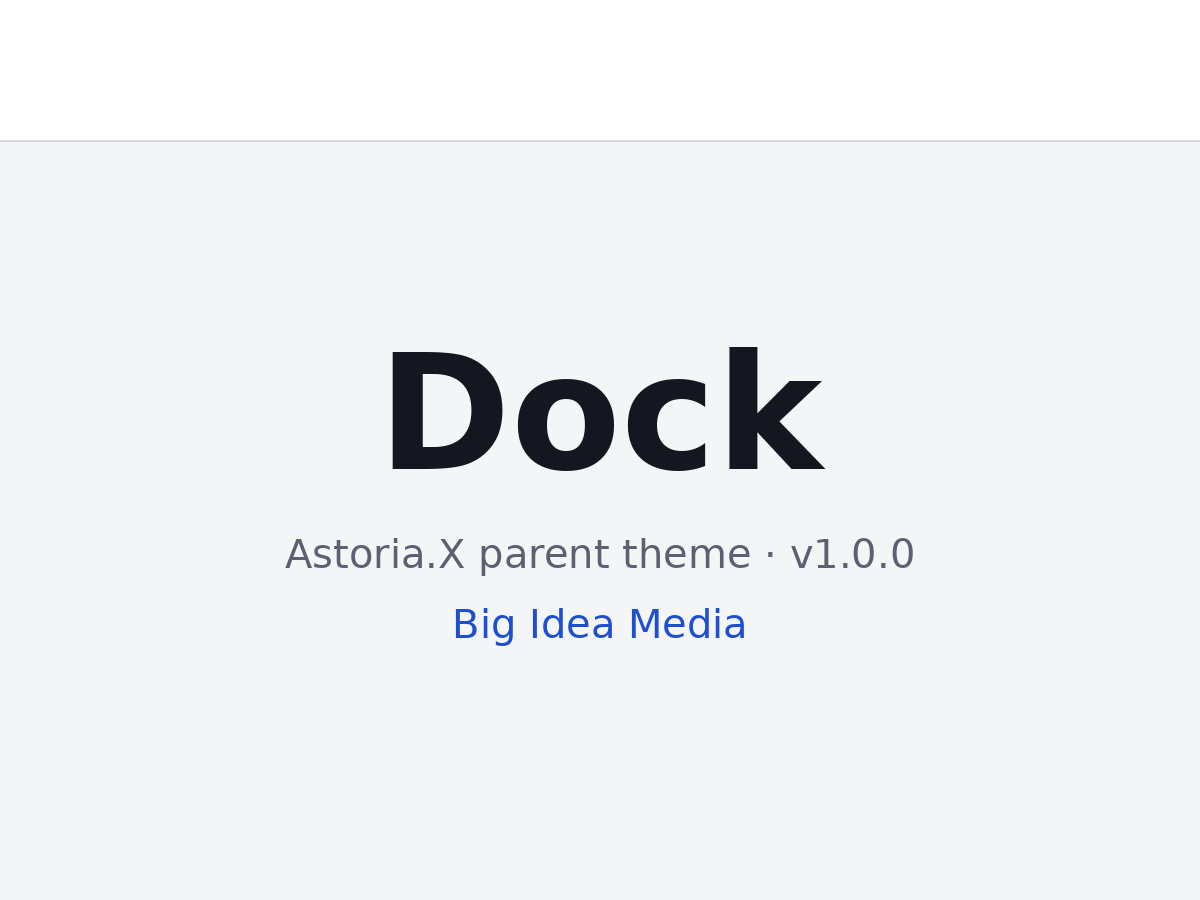
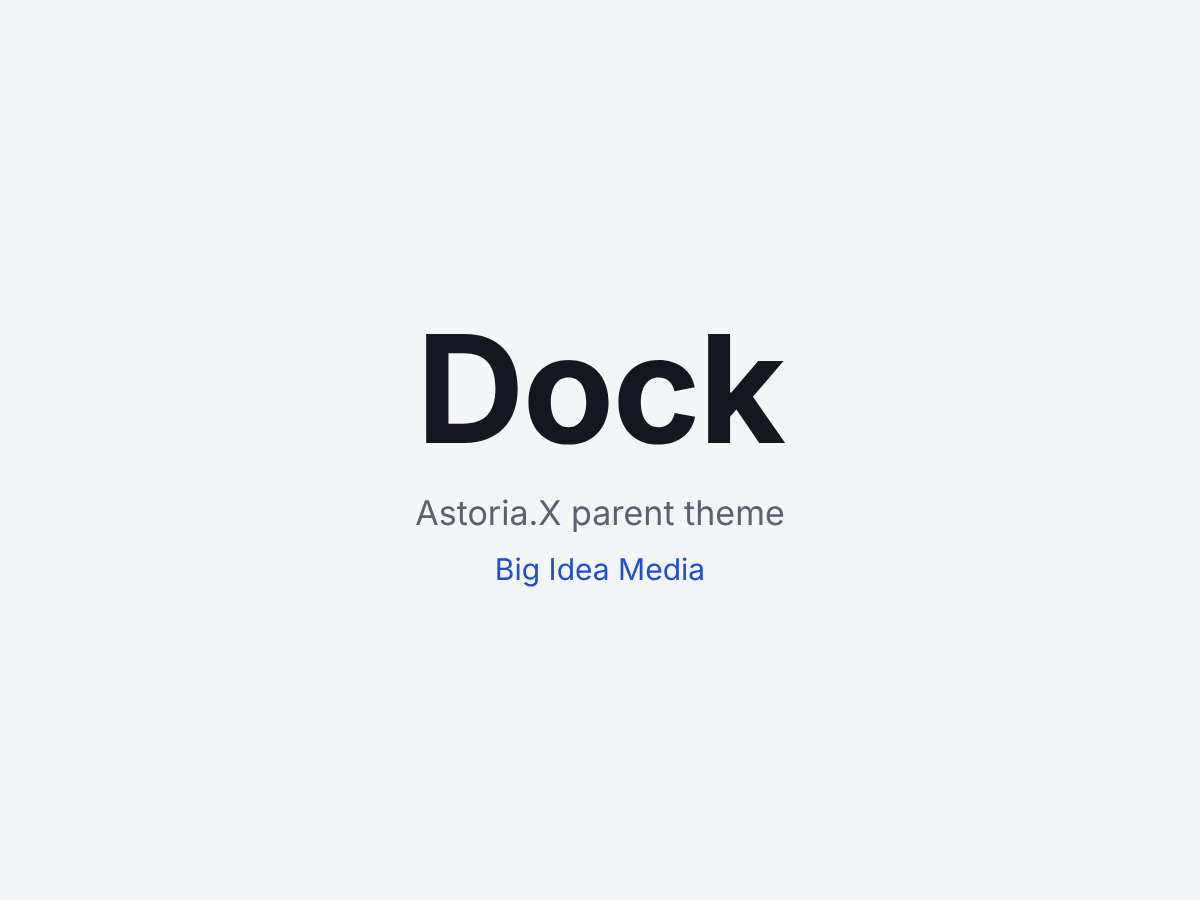
Keep version markers current: changelog, release checklist, version-free screenshot
- screenshot.png no longer shows a version number (it said v1.0.0 on 1.0.1).
- README points to style.css and CHANGELOG.md instead of repeating the number.
- Add CHANGELOG.md.
- CLAUDE.md: the version lives only in style.css and DOCK_VERSION, plus a
  release checklist covering changelog, screenshot, tag and zip.

Claude-Session: https://claude.ai/code/session_01CUz8qmFhV7ZwCisycR98r1

Changed region(s): [[0.3083, 0.3733, 0.6783, 0.5289], [0.2467, 0.56, 0.6475, 0.7156], [0.6475, 0.5911, 0.7708, 0.6533]]

diff --git a/CLAUDE.md b/CLAUDE.md
@@ -31,8 +31,17 @@ Dock is the Astoria.X parent theme by Big Idea Media. Every Big Idea Media child
 CSS load order: `variables.css` > `reset.css` > `base.css` (set by enqueue dependencies).
 
 ## Versioning
-- Semantic versioning. Bump `Version` in `style.css` **and** `DOCK_VERSION` in `functions.php` together (it busts the CSS cache).
+- Semantic versioning. Any change that ships in the theme folder (code, CSS, screenshot) is at least a patch bump.
+- The version number lives in exactly two places: `Version` in `style.css` and `DOCK_VERSION` in `functions.php` (it busts the CSS cache). Nothing else carries the number: not the README, not `screenshot.png`, not comments. The README points to `style.css` and `CHANGELOG.md`.
 - One topic per branch and pull request. `main` is always installable.
+
+## Release checklist (every version bump, all in the same pull request)
+1. `style.css` `Version` and `functions.php` `DOCK_VERSION` set to the new number.
+2. `CHANGELOG.md`: a new entry at the top with the version, the date and what changed.
+3. `screenshot.png` (1200 × 900) is current and shows no version number.
+4. Version check: `grep -rnE '[0-9]+\.[0-9]+\.[0-9]+' --include='*.php' --include='*.css' --include='*.md' .` shows the old number nowhere except `@since` tags (they record when code was added and never change), older `CHANGELOG.md` entries and "Requires" lines.
+5. After merge: tag the merge commit `vX.Y.Z`, build `dock-X.Y.Z.zip` from that tag (folder `dock/` at the zip root, no `.git`), put it in the project files, and delete the previous zip there.
+6. Update the theme on the test site and any live sites, then confirm the Themes screen shows the new version.
 
 ## Before every merge
 - `php -l` on every PHP file.

diff --git a/CHANGELOG.md b/CHANGELOG.md
@@ -1,0 +1,11 @@
+# Changelog
+
+All notable changes to Dock. Newest first. Versions follow semantic versioning; the current number is `Version` in `style.css`.
+
+## 1.0.1 (2026-11-18)
+- Fixed: content and menu links showed in the text color instead of `--color-link` (the reset's `a:not([class])` color override was removed).
+- Changed: `base.css` uses role and size tokens only. Added `--color-input-border`, `--color-on-link`, `--border-width-thick` and `--underline-offset`. No visual change.
+- Changed (2026-11-23, no code change): `screenshot.png` no longer shows a version number; README points to `style.css` and this changelog; release checklist added to `CLAUDE.md`.
+
+## 1.0.0 (2026-11-17)
+- First release: slim classic parent theme with templates, a rem-based token system on Andy Bell's reset, accessibility basics, per-block CSS and front-end cleanup.

diff --git a/README.md b/README.md
@@ -2,7 +2,7 @@
 
 The Astoria.X parent theme by Big Idea Media. Slim, builder-free, classic PHP. Gutenberg edits content; PHP templates handle layout.
 
-**Version:** 1.0.0 · **Requires:** WordPress 6.5+, PHP 8.1+ · **License:** GPL-2.0-or-later
+**Version:** see `Version` in [style.css](style.css) and [CHANGELOG.md](CHANGELOG.md) · **Requires:** WordPress 6.5+, PHP 8.1+ · **License:** GPL-2.0-or-later
 
 ## What's inside
 - Classic templates: `index`, `page`, `single`, `archive`, `search`, `404`, plus `header` and `footer`.
